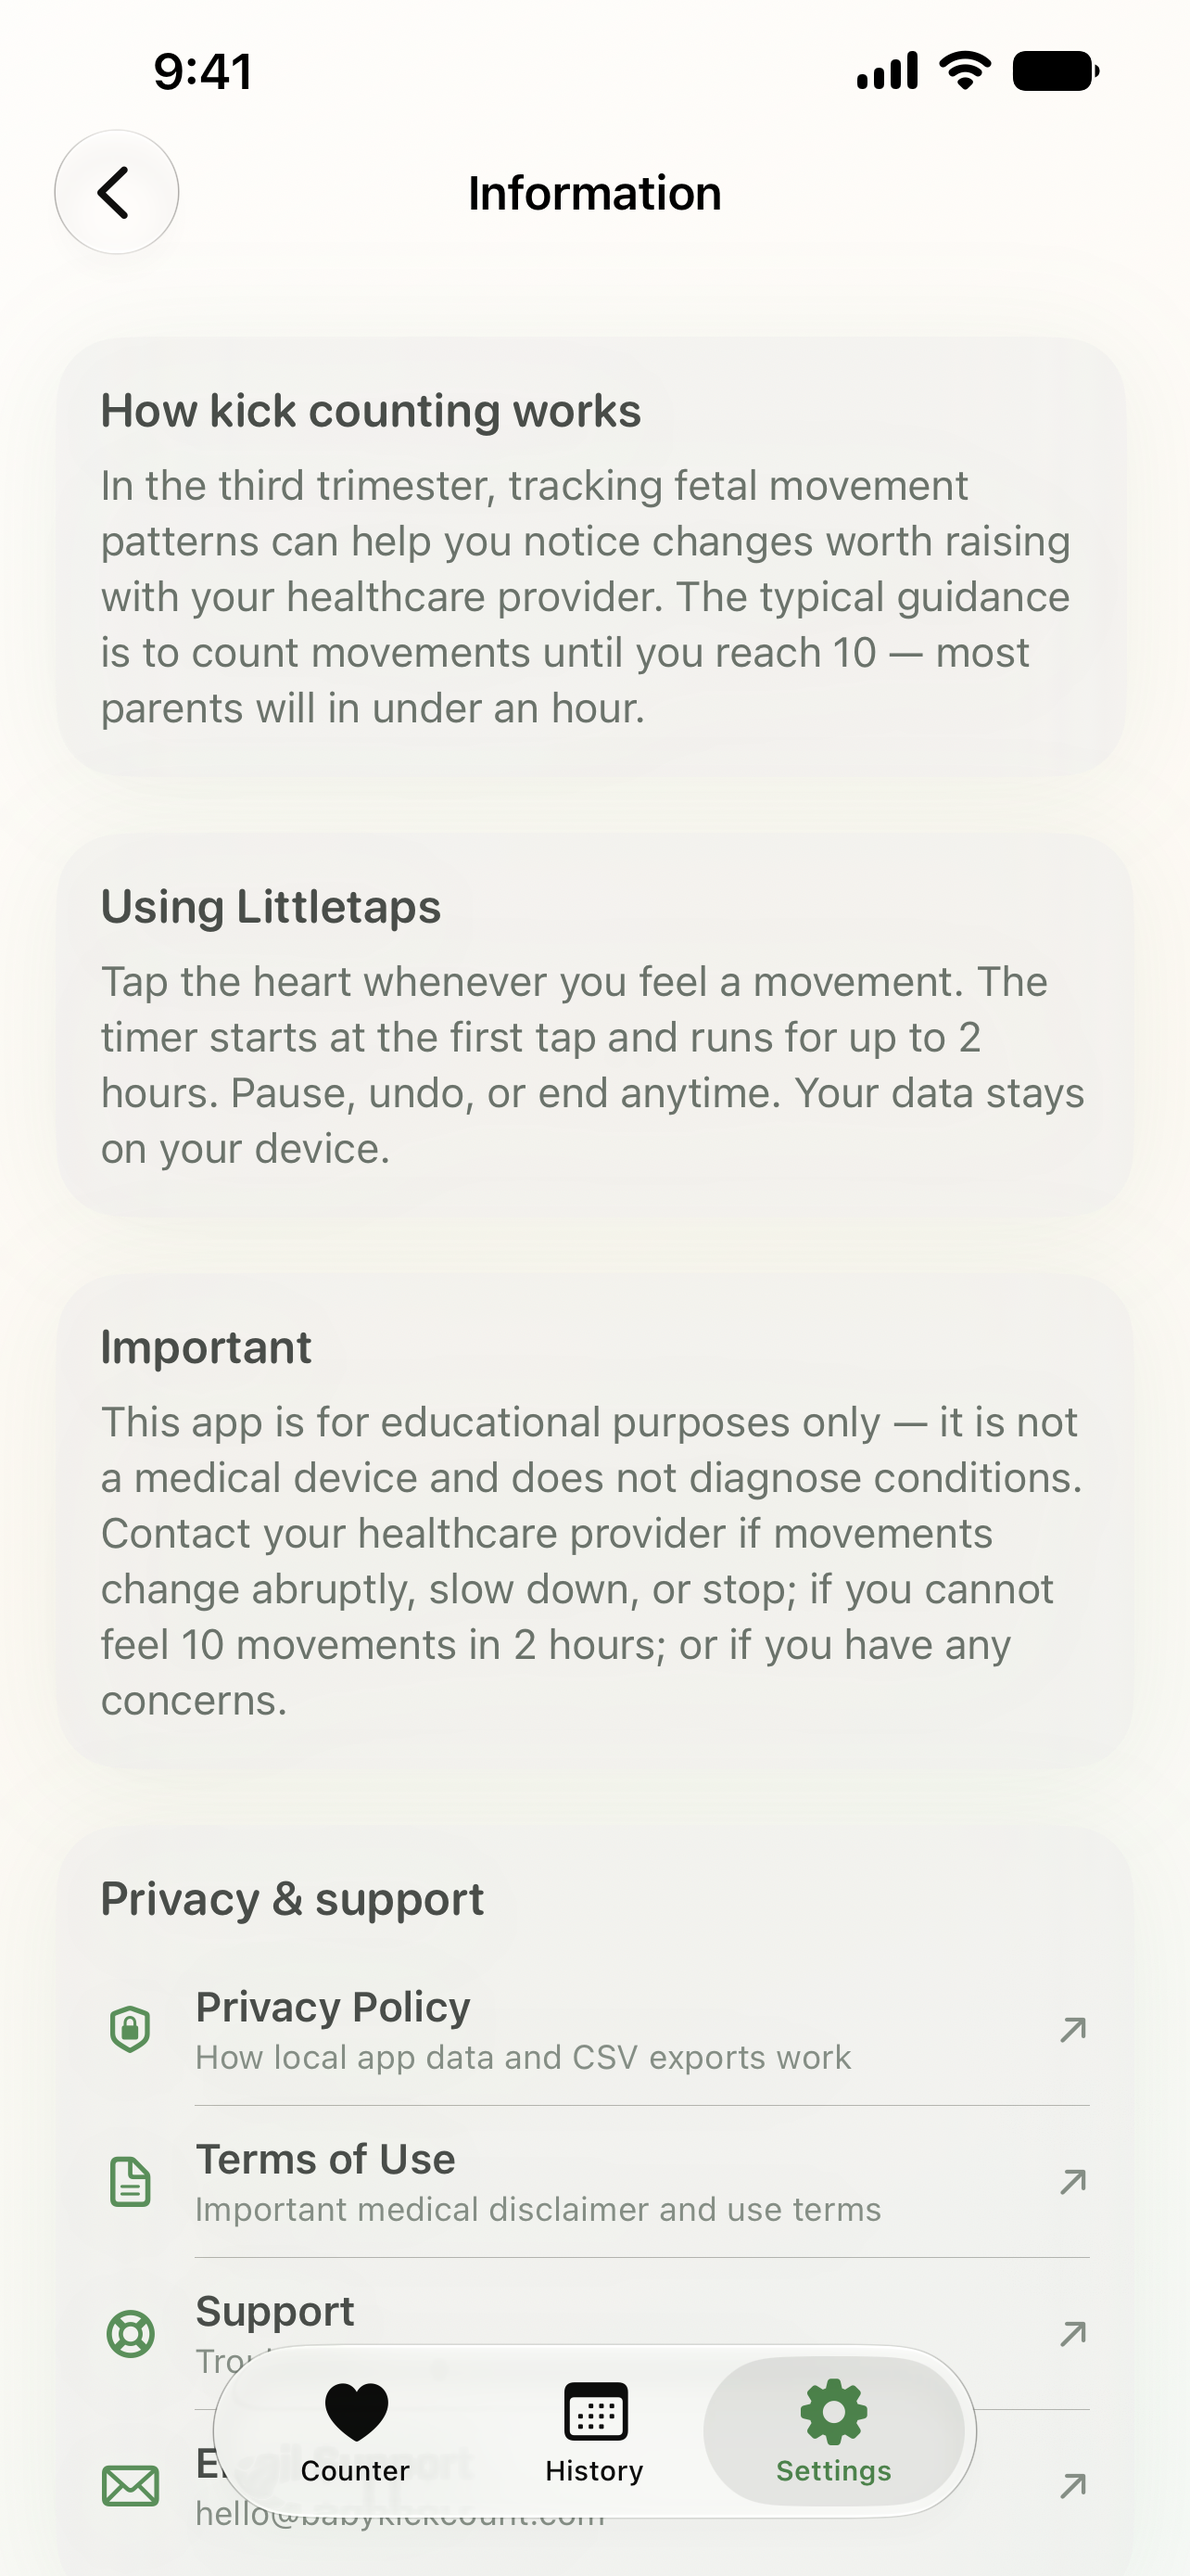
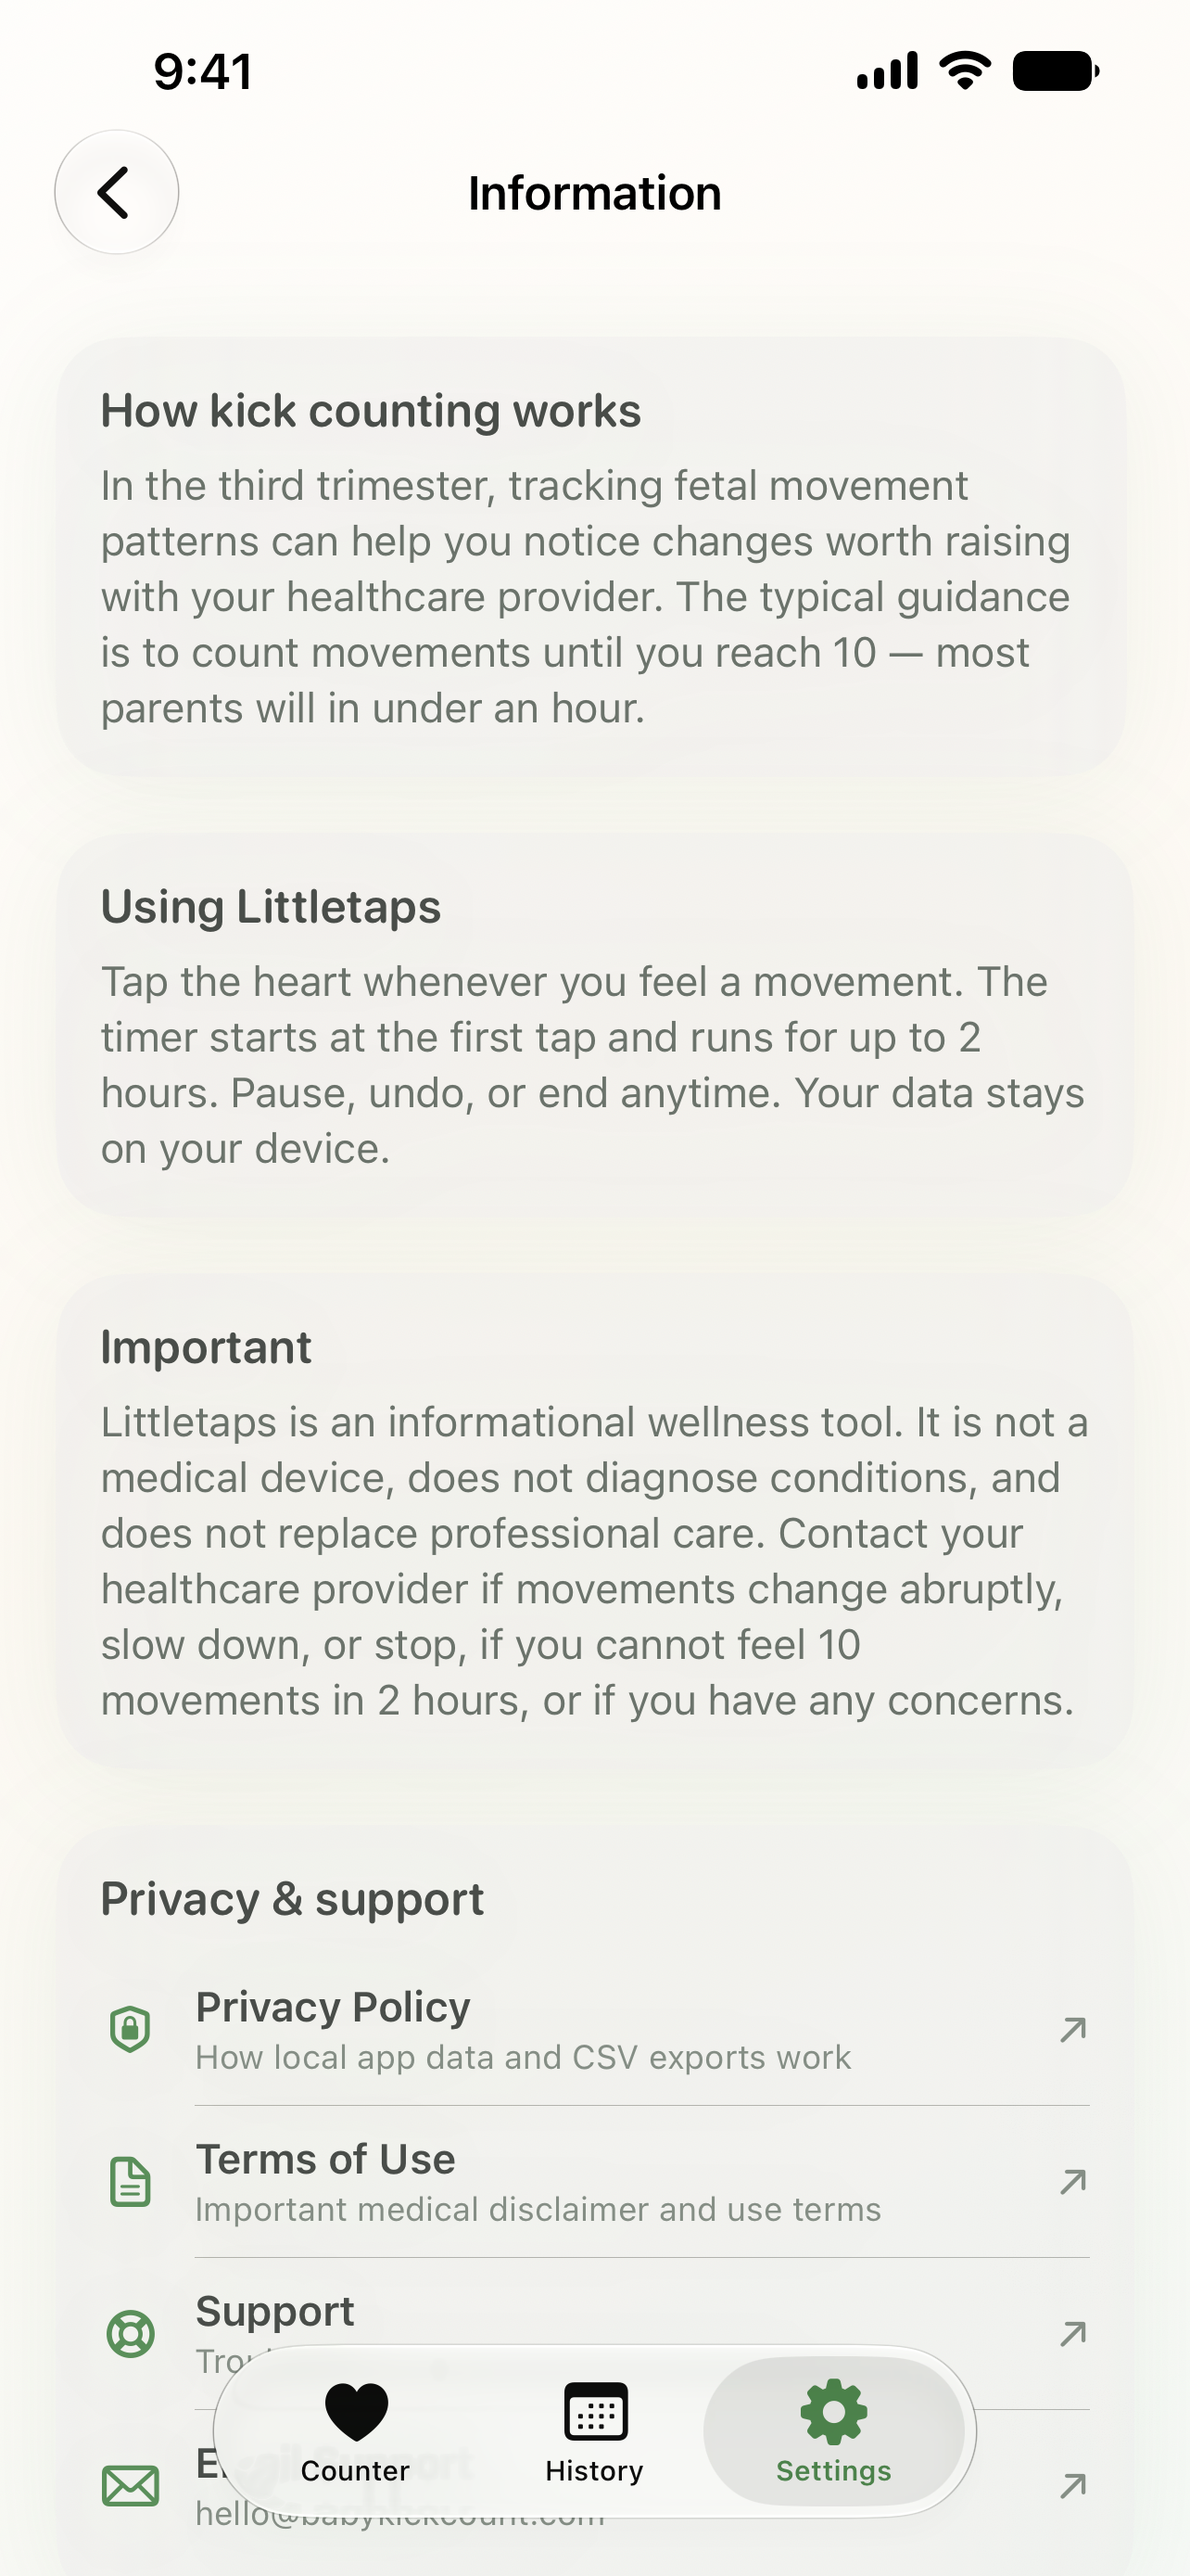
Define the medical disclaimer once and reuse it
Addresses the Codex review on #11, which was right on a point I had
asserted twice and not checked. The commit message and PR description
both claimed the onboarding disclaimer was copied from InfoView so the
two could not drift. It was not — it was hand-written, and the two
strings already differed. InfoView said the app is "for educational
purposes only" and did not mention replacing professional care;
onboarding said it did not replace professional care but only called it
"not a medical device" in the page title.

For a fetal-movement app that wording is legally and medically
load-bearing, and having two versions means a user can be shown a weaker
one depending on which screen they read. It now lives in
App/MedicalDisclaimer.swift and both screens read from it, so a revision
lands in both places or neither.

The unified text keeps every claim either version made rather than
picking one: not a medical device, does not diagnose, does not replace
professional care, and when to contact a provider. That makes it
strictly stronger than both originals.

MedicalDisclaimerTests asserts each of those claims is still present, so
a well-meaning copy edit cannot quietly drop one, and that the string
stays a single paragraph — the body uses escaped line continuations, and
a missing backslash would insert newlines mid-sentence and render as
broken text rather than fail to compile.

Screenshots re-captured: the Information screen carries this text.
[…]

Changed region(s): [[0.0935, 0.5263, 0.9034, 0.6811]]

diff --git a/ios/BabyKickCountTests/MedicalDisclaimerTests.swift b/ios/BabyKickCountTests/MedicalDisclaimerTests.swift
@@ -1,0 +1,39 @@
+import XCTest
+@testable import BabyKickCount
+
+/// The disclaimer is what keeps a fetal-movement app on the right side of the
+/// "not a medical device" line, both for App Review and for the person using
+/// it. These assert the load-bearing claims survive a copy edit — the two
+/// screens previously carried separately worded versions, and only one of them
+/// said the app does not replace professional care.
+final class MedicalDisclaimerTests: XCTestCase {
+
+    func testDisclaimerMakesEveryRequiredClaim() {
+        let text = MedicalDisclaimer.body.lowercased()
+
+        let required = [
+            "not a medical device",
+            "does not diagnose",
+            "does not replace",
+            "healthcare provider"
+        ]
+
+        for claim in required {
+            XCTAssertTrue(
+                text.contains(claim),
+                "the medical disclaimer no longer says '\(claim)' — "
+                + "it reads: \(MedicalDisclaimer.body)"
+            )
+        }
+    }
+
+    /// The body is a multi-line literal with escaped line continuations. A
+    /// missing backslash would silently introduce newlines mid-sentence, which
+    /// renders as broken text rather than failing to compile.
+    func testDisclaimerIsASingleUnbrokenParagraph() {
+        XCTAssertFalse(MedicalDisclaimer.body.contains("\n"),
+                       "the disclaimer should be one paragraph with no hard line breaks")
+        XCTAssertFalse(MedicalDisclaimer.body.contains("  "),
+                       "the disclaimer contains a double space, so a line continuation is malformed")
+    }
+}

diff --git a/ios/BabyKickCount/App/MedicalDisclaimer.swift b/ios/BabyKickCount/App/MedicalDisclaimer.swift
@@ -1,0 +1,28 @@
+import Foundation
+
+/// The single source of truth for the app's medical disclaimer.
+///
+/// It appears in two places — the final onboarding page and Settings ->
+/// Information & Help — and those had drifted into two separately worded
+/// strings that made different claims. Only one of them said the app does not
+/// replace professional care.
+///
+/// This wording is legally and medically load-bearing for a fetal-movement
+/// app, so it is defined once. If it is revised, both screens change together
+/// and no user can be shown a weaker version than another.
+enum MedicalDisclaimer {
+    static let body = """
+        Littletaps is an informational wellness tool. It is not a medical \
+        device, does not diagnose conditions, and does not replace \
+        professional care. Contact your healthcare provider if movements \
+        change abruptly, slow down, or stop, if you cannot feel 10 movements \
+        in 2 hours, or if you have any concerns.
+        """
+
+    /// Heading used on the onboarding page, which states the key point up
+    /// front rather than burying it in the body.
+    static let onboardingTitle = "Not a medical device"
+
+    /// Heading used for the Information & Help section.
+    static let infoSectionTitle = "Important"
+}

diff --git a/ios/BabyKickCount/Views/OnboardingView.swift b/ios/BabyKickCount/Views/OnboardingView.swift
@@ -24,11 +24,11 @@ struct OnboardingView: View {
         // Last, so it is the final thing read before the app opens. App Review
         // has asked pregnancy and fetal-movement apps for a prominent
         // disclaimer, and one buried in Settings -> Information & Help is not
-        // that. Wording matches InfoView so the two cannot drift apart.
+        // that. Text comes from MedicalDisclaimer, which InfoView also uses.
         Page(
             icon: "stethoscope",
-            title: "Not a medical device",
-            body: "Littletaps is an informational wellness tool. It does not diagnose conditions or replace professional care. Contact your healthcare provider if movements change abruptly, slow down, or stop, if you cannot feel 10 movements in 2 hours, or if you have any concerns."
+            title: MedicalDisclaimer.onboardingTitle,
+            body: MedicalDisclaimer.body
         )
     ]
 

diff --git a/ios/BabyKickCount/Views/InfoView.swift b/ios/BabyKickCount/Views/InfoView.swift
@@ -15,8 +15,8 @@ struct InfoView: View {
                 )
 
                 section(
-                    title: "Important",
-                    body: "This app is for educational purposes only — it is not a medical device and does not diagnose conditions. Contact your healthcare provider if movements change abruptly, slow down, or stop; if you cannot feel 10 movements in 2 hours; or if you have any concerns."
+                    title: MedicalDisclaimer.infoSectionTitle,
+                    body: MedicalDisclaimer.body
                 )
 
                 linkSection

diff --git a/TODO.md b/TODO.md
@@ -131,7 +131,7 @@ Sign in at appstoreconnect.apple.com, **My Apps** -> **Littletaps - Baby Kick Co
 - [ ] **Regulated Medical Device.** Left sidebar -> **App Privacy**, then the **App Store Connect questions** / Business section; the medical-device question also appears in the submission flow when you click **Add for Review**. Answer **No**. Littletaps logs what the user felt and shows a disclaimer; it does not measure a physiological signal or make a diagnosis, which is what that question is asking about.
 - [ ] **App Review Information.** Same `1.0 Prepare for Submission` page, scroll to the **App Review Information** section near the bottom. Fill First Name, Last Name, Phone Number, and Email — a phone number Apple can actually reach during review. Leave "Sign-in required" unchecked (no account in the app). The Notes field already has the draft at the bottom of this file; paste it in if it is not there.
 - [ ] Fixed font sizes in `CountDisplay` (72 pt) and `TapPad` (64 pt) do not respond to Dynamic Type; check the tap pad's three stacked labels at the largest accessibility sizes.
-- [x] The medical disclaimer lives in `InfoView`, reachable only via Settings -> Information & Help. Now also the final onboarding page ("Not a medical device"), so it is the last thing read before the app opens rather than being three taps deep. Wording is copied from `InfoView` so the two cannot drift. `PageView` became scrollable in the same change — the disclaimer is the longest body text in the app and did not fit a page-style `TabView` slot at accessibility text sizes.
+- [x] The medical disclaimer lives in `InfoView`, reachable only via Settings -> Information & Help. Now also the final onboarding page ("Not a medical device"), so it is the last thing read before the app opens rather than being three taps deep. Both screens read from `MedicalDisclaimer` in `App/MedicalDisclaimer.swift` — a first pass hand-wrote a second, similar-but-different string, and only one of the two said the app does not replace professional care. `MedicalDisclaimerTests` asserts the load-bearing claims survive a copy edit. `PageView` became scrollable in the same change — the disclaimer is the longest body text in the app and did not fit a page-style `TabView` slot at accessibility text sizes.
 - [ ] Answer "No" to the Regulated Medical Device question in App Store Connect. The in-app and website copy consistently position this as an informational wellness log, which supports that answer.
 - [ ] Fill the App Review Information contact first name, last name, phone, and email.
 
